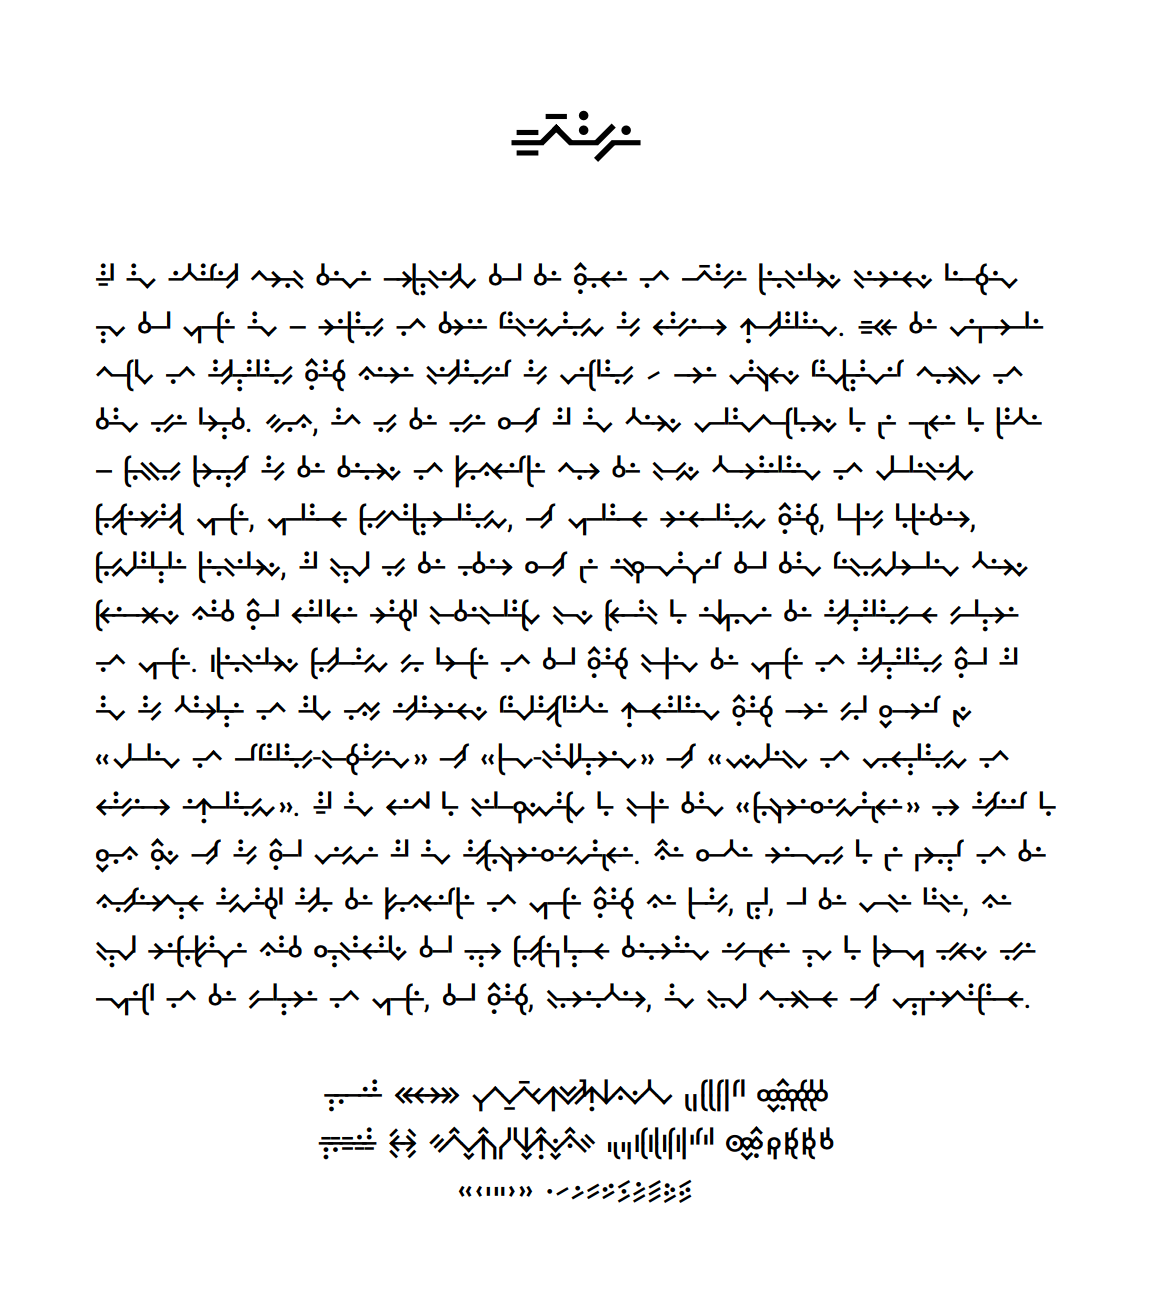
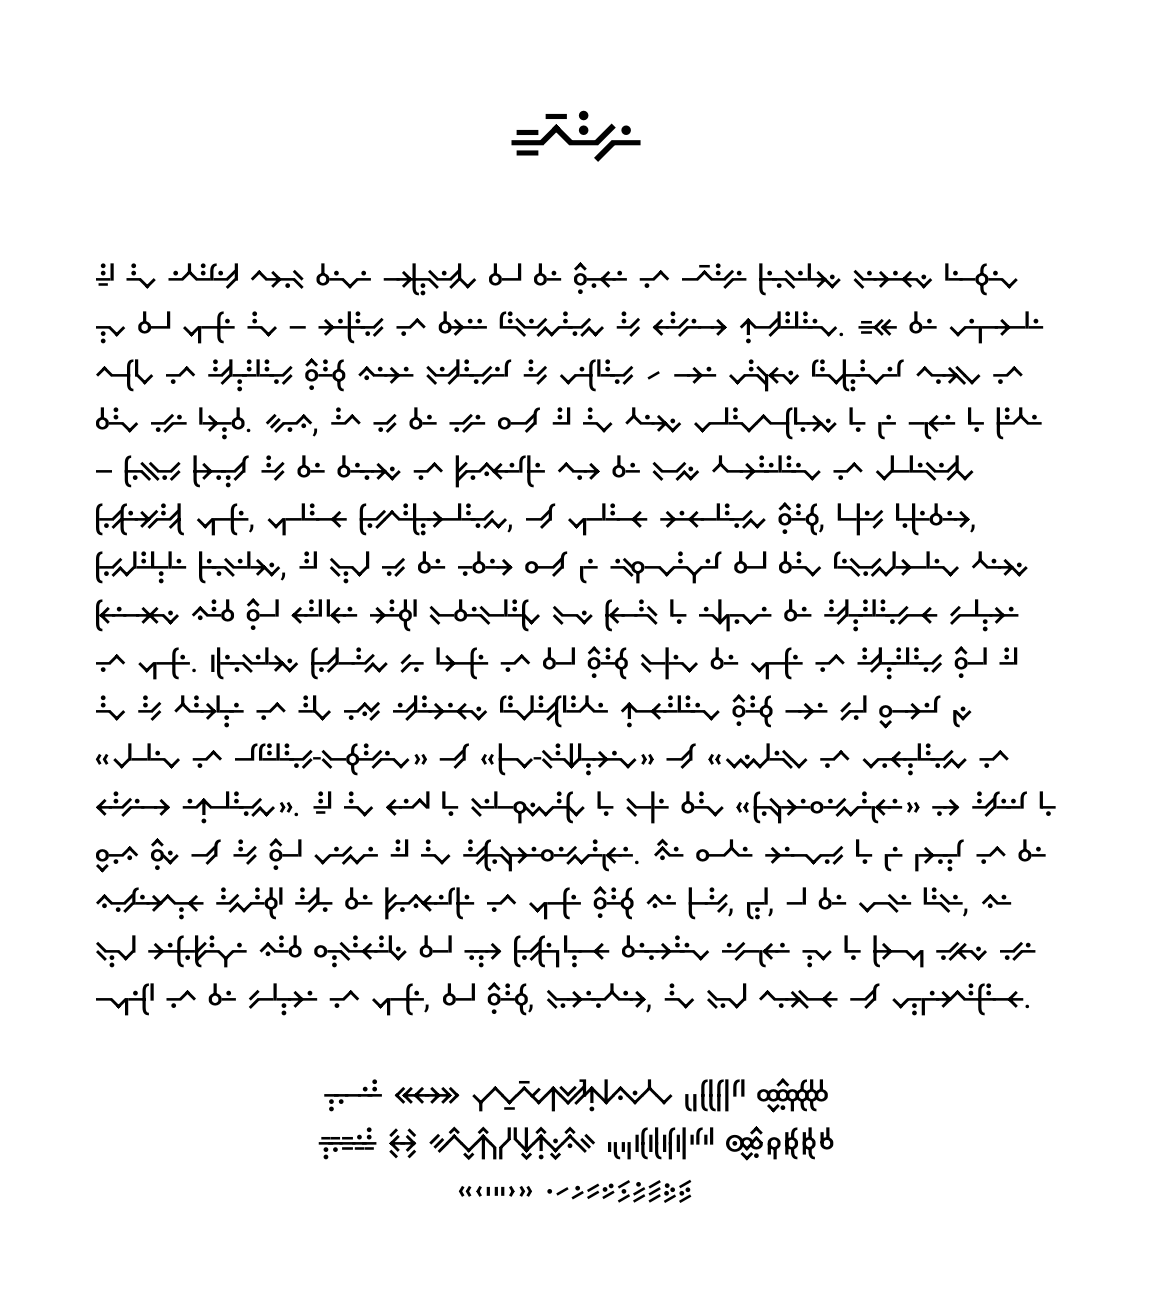
Disable subpixel rendering in specimen

diff --git a/specimen/specimen.html b/specimen/specimen.html
@@ -17,7 +17,6 @@
         line-height: 1.5;
         margin: 3rem;
         text-rendering: geometricprecision;
-        -webkit-font-smoothing: none;
       }
 
       h1 {
